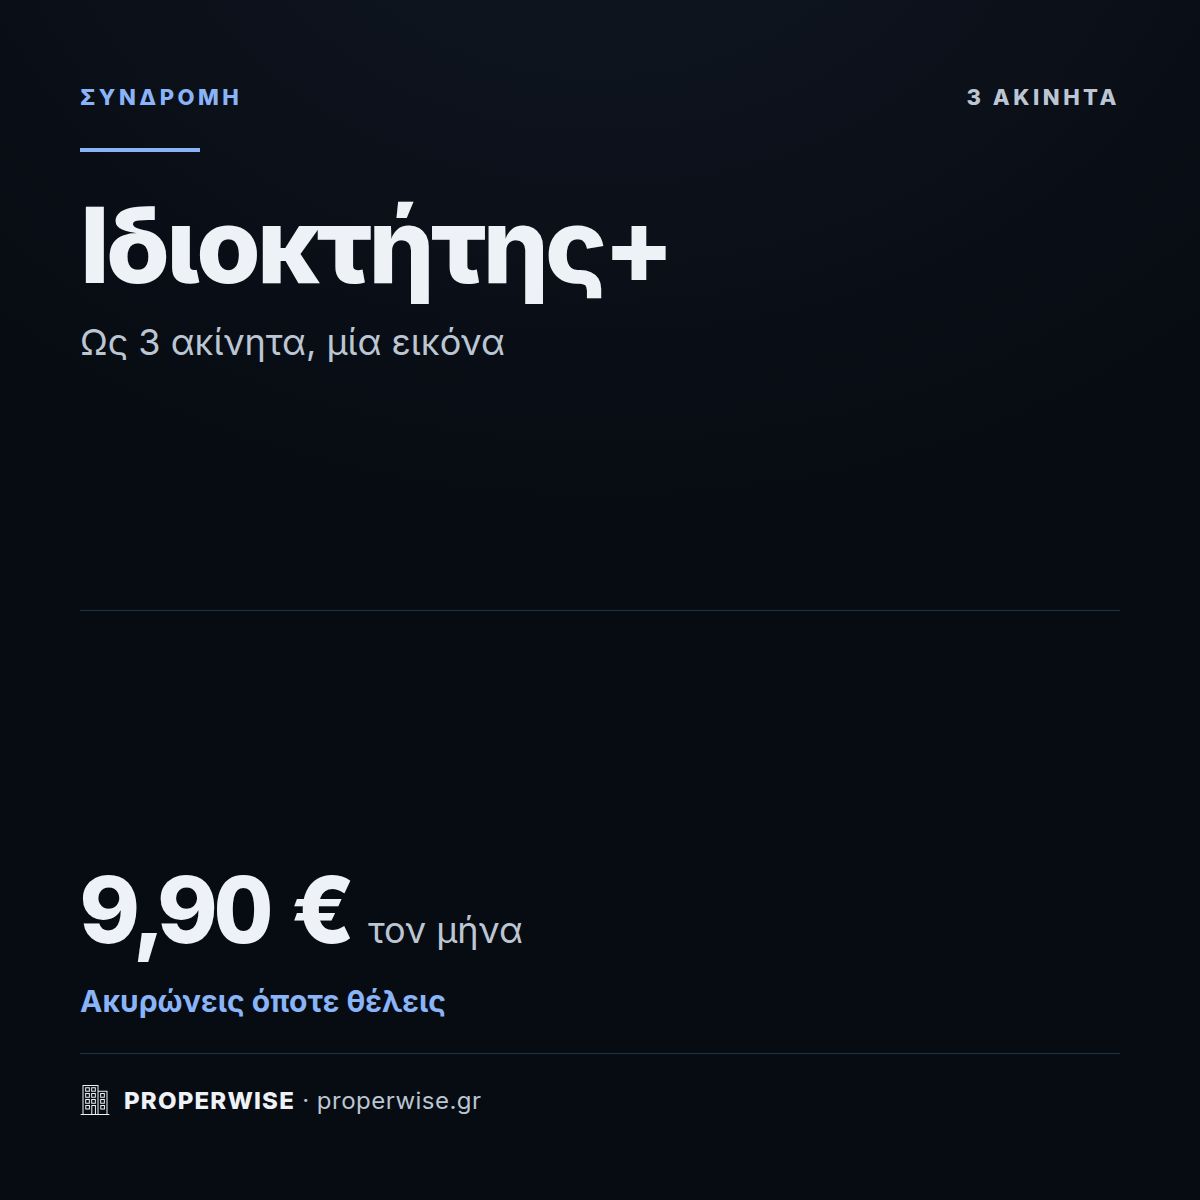
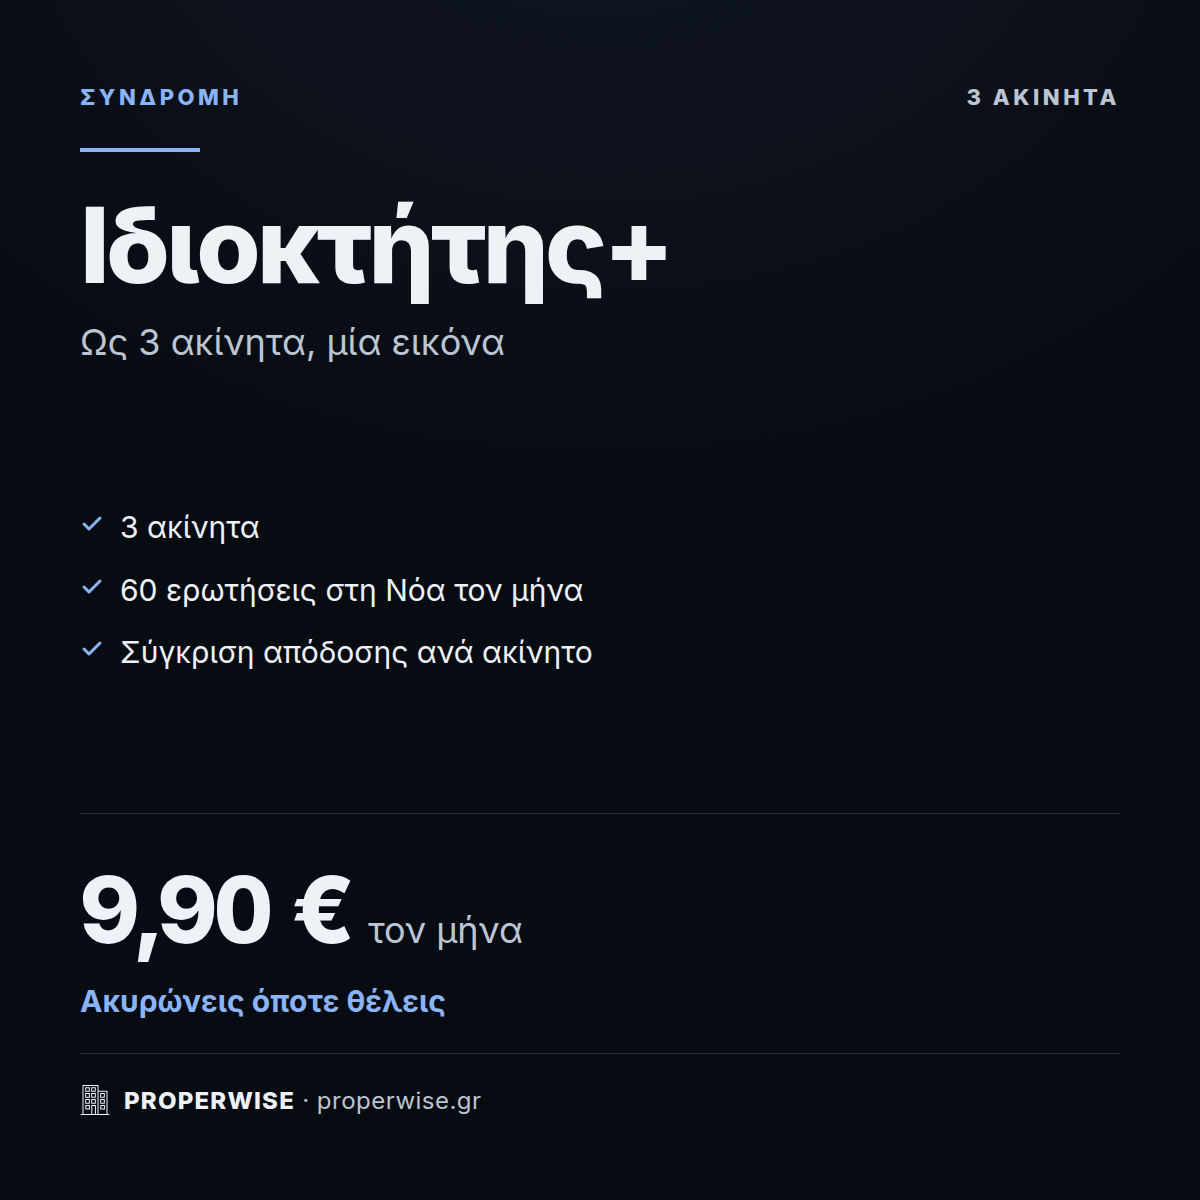
Εικόνες καταστήματος: τρία σημεία στο τετράγωνο, ολόκληρη η λίστα, μονάδα σε κάθε τιμή
- Τετράγωνο: η άδεια μέση γίνεται τρία σημεία ανά πακέτο (όριο, ερωτήσεις, ένα
  που το ξεχωρίζει), ίδιο σχήμα και στα τέσσερα.
- Τι περιλαμβάνει: η λίστα είναι η ίδια με της περιγραφής (listFor). Αριστερά
  το πακέτο και από πού ξεκινά («Ό,τι έχει ο …»).
- Τιμή: «τον μήνα»/«τον χρόνο» δίπλα σε κάθε ποσό, κείμενο χωρίς συρραφή με κόμμα.

Claude-Session: https://claude.ai/code/session_01FciDzM5oCHC6crgCfFdPE1

Changed region(s): [[0.0925, 0.4317, 0.4933, 0.555]]

diff --git a/scripts/brand/store.ts b/scripts/brand/store.ts
@@ -144,20 +144,47 @@ const tick = `<svg width="24" height="24" viewBox="0 0 24 24" fill="none" stroke
   stroke-linecap="round" stroke-linejoin="round" style="flex:0 0 auto;margin-top:5px"><path d="M20 6 9 17l-5-5"/></svg>`;
 
 type Shot = { file: string; w: number; h: number; html: string };
+
+const PAID = PLAN_ORDER.filter(p => p !== 'free') as PlanId[];
+const prevOf = (id: PlanId) => { const i = PAID.indexOf(id); return i > 0 ? PLANS[PAID[i - 1]] : null; };
+const capOf = (id: PlanId) => { const m = PLANS[id].maxProperties;
+  return m === Infinity ? 'Ακίνητα χωρίς όριο' : `${m} ${m === 1 ? 'ακίνητο' : 'ακίνητα'}`; };
+/**
+ * Η ΛΙΣΤΑ ΕΙΝΑΙ ΜΙΑ, ΓΙΑ ΕΙΚΟΝΑ ΚΑΙ ΠΕΡΙΓΡΑΦΗ. Ο «Ιδιοκτήτης με Νόα» χτίζει
+ * πάνω στον δωρεάν «Ιδιοκτήτη», οπότε παίρνει και τις γραμμές εκείνου (εκτός
+ * από τη σάρωση, που εδώ δεν έχει όριο). Τα ακριβότερα λένε μόνο τι προσθέτουν
+ * και το «ό,τι έχει ο …» το γράφει το κείμενο δίπλα.
+ */
+const listFor = (id: PlanId): string[] => {
+  const p = PLANS[id];
+  const inherited = id === 'solo' ? PLANS.free.features.filter(f => !f.startsWith('Σάρωση')) : [];
+  return [capOf(id), ...inherited, ...p.features.filter(f => !/^Έως \d|^Ακίνητα χωρίς όριο|^Απεριόριστα ακίνητα/.test(f))];
+};
+/** Το ένα σημείο που ξεχωρίζει κάθε πακέτο, για το τετράγωνο. */
+const HIGHLIGHT: Record<string, string> = {
+  solo: 'Ε2 έτοιμο για τον λογιστή',
+  owner: 'Σύγκριση απόδοσης ανά ακίνητο',
+  agency: 'Ομάδα με ρόλους, χωρίς όριο',
+  office: 'Πρώτο στη σειρά διάθεσης',
+};
 const shots: Shot[] = [];
 
-for (const id of PLAN_ORDER.filter(p => p !== 'free') as PlanId[]) {
+for (const id of PAID) {
   const p = PLANS[id];
   const ai = aiLimitsFor(id).perMonth;
-  const cap = p.maxProperties === Infinity ? 'Ακίνητα χωρίς όριο'
-    : `${p.maxProperties} ${p.maxProperties === 1 ? 'ακίνητο' : 'ακίνητα'}`;
+  const cap = capOf(id);
   // Πόσους μήνες χαρίζει η ετήσια: δώδεκα μείον όσους πληρώνεις. Ιδιος
   // υπολογισμός με την κάρτα της αρχικής σελίδας, όχι δεύτερος αριθμός.
   const freeMonths = 12 - Math.round(p.priceAnnual / p.priceMonthly);
   // Κεφαλαία ΧΩΡΙΣ τόνους: το toUpperCase() κρατά τον τόνο («ΑΚΊΝΗΤΟ»).
   const NAME = grUpper(p.name);
 
-  // ── 1. ΤΙ ΕΙΝΑΙ. Ενα κεντραρισμένο μπλοκ, ίδιο σε κάθε πακέτο. ───────────
+  // ── 1. ΤΙ ΕΙΝΑΙ. Ονομα, τρία σημεία, τιμή: τρεις ζώνες, ίδιες σε κάθε πακέτο.
+  // Η ΜΕΣΗ ΗΤΑΝ ΑΔΕΙΑ. Ονομα πάνω και τιμή κάτω με σκέτο κενό ανάμεσα: σε
+  // μικρογραφία του καταστήματος διαβαζόταν ως μισοτελειωμένη εικόνα. Τώρα
+  // εκεί μπαίνουν τα τρία πράγματα που ξεχωρίζουν το πακέτο, πάντα τρία, ώστε
+  // οι τέσσερις μικρογραφίες να έχουν το ίδιο σχήμα η μία δίπλα στην άλλη.
+  const top3 = [cap, `${ai} ερωτήσεις στη Νόα τον μήνα`, HIGHLIGHT[id]];
   shots.push({
     file: `${id}-1-tetragono.png`, w: 1200, h: 1200,
     html: card(1200, 1200, 'ΣΥΝΔΡΟΜΗ', grUpper(cap), `
@@ -166,8 +193,11 @@ for (const id of PLAN_ORDER.filter(p => p !== 'free') as PlanId[]) {
         <div data-k="onoma" style="font-size:${TS.hero}px;font-weight:800;letter-spacing:-0.035em;line-height:1.02">${esc(p.name)}</div>
         <div data-k="ypotitlos" style="margin-top:20px;font-size:${TS.sub}px;color:${MUTED};line-height:1.35">${esc(p.tagline)}</div>
       </div>
-      <div class="rule"></div>
+      <div data-k="simeia" style="display:flex;flex-direction:column;gap:22px">
+        ${top3.map(t => `<div style="display:flex;align-items:flex-start;gap:16px;font-size:${TS.body}px;line-height:1.35">${tick}<span>${esc(t)}</span></div>`).join('')}
+      </div>
       <div>
+        <div class="rule" style="margin-bottom:40px"></div>
         <div data-k="timi" style="display:flex;align-items:baseline;gap:16px">
           <span class="num" style="font-size:${TS.kpi}px">${price(p.priceMonthly)}</span>
           <span style="font-size:${TS.sub}px;color:${MUTED}">τον μήνα</span>
@@ -176,42 +206,55 @@ for (const id of PLAN_ORDER.filter(p => p !== 'free') as PlanId[]) {
       </div>`, true),
   });
 
-  // ── 2. ΤΙ ΠΕΡΙΛΑΜΒΑΝΕΙ. Δύο στήλες που γεμίζουν ΚΑΤΑ ΣΤΗΛΗ, ζυγισμένες. ──
-  const items = [cap, ...p.features.filter(f => !/^Έως \d|^Ακίνητα χωρίς όριο|^Απεριόριστα ακίνητα/.test(f)), `${ai} ερωτήσεις στον βοηθό τον μήνα`];
-  const half = Math.ceil(items.length / 2);
-  // ΤΟ ΣΗΜΑΔΙ ΜΠΑΙΝΕΙ ΣΤΗΝ ΠΡΩΤΗ ΓΡΑΜΜΗ, ΟΧΙ ΣΤΗ ΣΤΗΛΗ. Δοκιμάστηκε με
-  // «padding-top» στη στήλη και ο έλεγχος πέρασε πράσινος: το γέμισμα είναι
-  // ΜΕΣΑ στο κουτί, οπότε το πάνω όριο της στήλης δεν κουνιέται ενώ το
-  // περιεχόμενο κατεβαίνει. Αυτό που πρέπει να ευθυγραμμίζεται είναι το πρώτο
-  // τσεκάκι της κάθε στήλης, άρα αυτό μετριέται.
-  const col = (list: string[], k: string) => `<div style="display:flex;flex-direction:column;gap:24px">`
-    + list.map((t, i) => `<div${i === 0 ? ` data-k="${k}"` : ''} style="display:flex;align-items:flex-start;gap:16px;font-size:${TS.body}px;line-height:1.35">`
-      + `${tick}<span>${esc(t)}</span></div>`).join('') + '</div>';
+  // ── 2. ΤΙ ΠΕΡΙΛΑΜΒΑΝΕΙ. Αριστερά το πακέτο, δεξιά ΟΛΗ η λίστα. ─────────────
+  // Η ΛΙΣΤΑ ΕΛΕΓΕ ΛΙΓΟΤΕΡΑ ΑΠ' ΟΣΑ ΠΕΡΙΛΑΜΒΑΝΕΙ ΤΟ ΠΑΚΕΤΟ. Ο «Ιδιοκτήτης με Νόα»
+  // έδειχνε τέσσερα σημεία ενώ η περιγραφή του καταστήματος γράφει επτά. Και τα
+  // ακριβότερα πακέτα δεν έλεγαν ότι χτίζουν πάνω στο προηγούμενο: ο αγοραστής
+  // του «Ιδιοκτήτης+» έβλεπε τρεις γραμμές και συμπέραινε ότι παίρνει λιγότερα.
+  // Εδώ η λίστα είναι η ΙΔΙΑ με της περιγραφής (listFor) και η αριστερή στήλη
+  // λέει από πού ξεκινά το πακέτο.
+  // Το πακέτο ερωτήσεων κλείνει τη λίστα: στο κείμενο το λέει η εισαγωγή.
+  const items = [...listFor(id), `${ai} ερωτήσεις στη Νόα τον μήνα`];
+  const prev = prevOf(id);
+  // Η ΑΛΛΑΓΗ ΓΡΑΜΜΗΣ ΕΙΝΑΙ ΕΠΙΛΟΓΗ: αλλιώς το «και επιπλέον:» έσπαγε όπου τύχαινε.
+  const lead = prev ? `Ό,τι έχει ο «${esc(prev.name)}»<br>και επιπλέον:` : `Όλα όσα χρειάζεται ένα ακίνητο,<br>με τη Νόα δίπλα σου.`;
   shots.push({
     file: `${id}-2-perilamvanei.png`, w: 1600, h: 900,
     html: card(1600, 900, 'ΤΙ ΠΕΡΙΛΑΜΒΑΝΕΙ', NAME, `
-      <div style="display:grid;grid-template-columns:1fr 1fr;gap:0 56px;align-items:start">
-        ${col(items.slice(0, half), 'stili-a')}${col(items.slice(half), 'stili-b')}
+      <div style="display:grid;grid-template-columns:520px 1fr;gap:0 80px;align-items:center">
+        <div data-k="aristera">
+          <div style="width:96px;height:4px;background:${ACCENT};margin-bottom:32px"></div>
+          <div style="font-size:${TS.h2}px;font-weight:800;letter-spacing:-0.03em;line-height:1.05">${esc(p.name)}</div>
+          <div style="margin-top:22px;font-size:${TS.body}px;color:${MUTED};line-height:1.45">${lead}</div>
+        </div>
+        <div style="display:flex;flex-direction:column;gap:${items.length > 7 ? 16 : 22}px;padding-left:56px;border-left:1px solid ${RULE}">
+          ${items.map(t => `<div style="display:flex;align-items:flex-start;gap:16px;font-size:${TS.body}px;line-height:1.35">${tick}<span>${esc(t)}</span></div>`).join('')}
+        </div>
       </div>`),
   });
 
   // ── 3. ΤΙ ΚΟΣΤΙΖΕΙ. Δύο ΙΣΑ μισά, με τη γραμμή ακριβώς στη μέση. ─────────
-  const money = (label: string, value: number, k: string, note?: string) => `
+  // Κάθε ποσό λέει και τη μονάδα του («τον μήνα», «τον χρόνο»): δύο σκέτα
+  // νούμερα δίπλα δίπλα ζητούν από τον αγοραστή να μαντέψει ποιο είναι ποιο.
+  const money = (label: string, value: number, unit: string, k: string, note?: string) => `
     <div data-k="${k}" style="display:flex;flex-direction:column;align-items:flex-start">
       <div style="font-size:${TS.micro}px;color:${MUTED};letter-spacing:0.14em;font-weight:700">${label}</div>
-      <div class="num" style="margin-top:14px;font-size:${TS.kpi}px;line-height:1">${price(value)}</div>
-      <div style="margin-top:14px;font-size:${TS.body}px;color:${note ? ACCENT : 'transparent'};font-weight:700">${note || 'κενό'}</div>
+      <div style="margin-top:14px;display:flex;align-items:baseline;gap:14px">
+        <span class="num" style="font-size:${TS.kpi}px;line-height:1">${price(value)}</span>
+        <span style="font-size:${TS.body}px;color:${MUTED}">${unit}</span>
+      </div>
+      <div style="margin-top:18px;font-size:${TS.body}px;color:${note ? ACCENT : 'transparent'};font-weight:700">${note || 'κενό'}</div>
     </div>`;
   shots.push({
     file: `${id}-3-timi.png`, w: 1600, h: 900,
     html: card(1600, 900, 'ΤΙΜΗ', NAME, `
       <div style="display:grid;grid-template-columns:1fr 1px 1fr;align-items:center;gap:0 64px">
-        ${money('ΜΗΝΙΑΙΑ', p.priceMonthly, 'miniaia')}
+        ${money('ΜΗΝΙΑΙΑ', p.priceMonthly, 'τον μήνα', 'miniaia')}
         <div style="width:1px;height:200px;background:${RULE}"></div>
-        ${money('ΕΤΗΣΙΑ', p.priceAnnual, 'etisia', `${freeMonths} ${freeMonths === 1 ? 'μήνας' : 'μήνες'} δωρεάν`)}
+        ${money('ΕΤΗΣΙΑ', p.priceAnnual, 'τον χρόνο', 'etisia', `${freeMonths} ${freeMonths === 1 ? 'μήνας' : 'μήνες'} δωρεάν`)}
       </div>
-      <div data-k="psila" style="margin-top:52px;font-size:${TS.micro}px;color:${MUTED};line-height:1.6;max-width:1100px">
-        Ακυρώνεις όποτε θέλεις, η πρόσβαση μένει ως το τέλος της περιόδου. Χωρίς κρυφές χρεώσεις.
+      <div data-k="psila" style="margin-top:56px;padding-top:32px;border-top:1px solid ${RULE};font-size:${TS.micro}px;color:${MUTED};line-height:1.6">
+        Ακυρώνεις όποτε θέλεις και η πρόσβαση μένει ως το τέλος της περιόδου που πλήρωσες.<br>
         Οι τιμές αφορούν καταναλωτές στην Ελλάδα και περιλαμβάνουν ΦΠΑ.
       </div>`),
   });
@@ -254,8 +297,6 @@ function copyMarkdown(): string {
     // Το όριο σε δύο μορφές: μία για μέσα σε πρόταση, μία για κουκκίδα.
     const capFrasi = p.maxProperties === Infinity ? 'χωρίς όριο ακινήτων'
       : `έως ${p.maxProperties} ${p.maxProperties === 1 ? 'ακίνητο' : 'ακίνητα'}`;
-    const capKoukkida = p.maxProperties === Infinity ? 'Ακίνητα χωρίς όριο'
-      : `${p.maxProperties} ${p.maxProperties === 1 ? 'ακίνητο' : 'ακίνητα'}`;
     const freeMonths = 12 - Math.round(p.priceAnnual / p.priceMonthly);
     // ΤΟ ΟΡΙΟ ΑΚΙΝΗΤΩΝ ΛΕΓΕΤΑΙ ΜΙΑ ΦΟΡΑ, ΩΣ ΚΟΥΚΚΙΔΑ. Ηταν και στην πρόταση
     // «Περιλαμβάνει έως 3 ακίνητα» και ξανά ως κουκκίδα «Εως 3 ακίνητα»: το ίδιο
@@ -263,8 +304,7 @@ function copyMarkdown(): string {
     // Ο «Ιδιοκτήτης με Νόα» είναι το πρώτο προϊόν του καταστήματος, αλλά χτίζει
     // πάνω στον δωρεάν «Ιδιοκτήτη»: οι γραμμές εκείνου γράφονται κι εδώ, εκτός
     // από τη σάρωση, που εδώ δεν έχει όριο.
-    const inherited = id === 'solo' ? PLANS.free.features.filter(f => !f.startsWith('Σάρωση')) : [];
-    const bullets = [capKoukkida, ...inherited, ...p.features.filter(f => !/^Έως \d|^Ακίνητα χωρίς όριο|^Απεριόριστα ακίνητα/.test(f))];
+    const bullets = listFor(id);
     // ΚΑΙ Η ΚΛΙΜΑΚΑ ΛΕΓΕΤΑΙ ΚΙ ΕΔΩ. Στην αρχική σελίδα κάθε κάρτα γράφει «Ολα
     // του προηγούμενου και:». Στο κατάστημα το κάθε προϊόν στέκει ΜΟΝΟ του:
     // χωρίς αυτή τη γραμμή, ο αγοραστής του «Ιδιοκτήτης+» διαβάζει δύο
